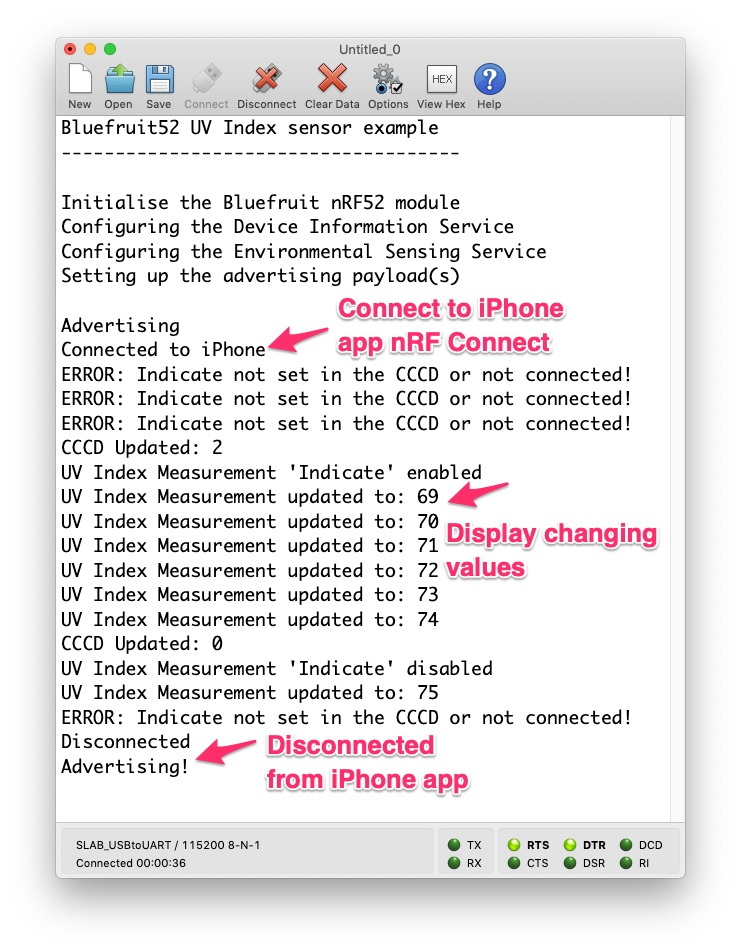
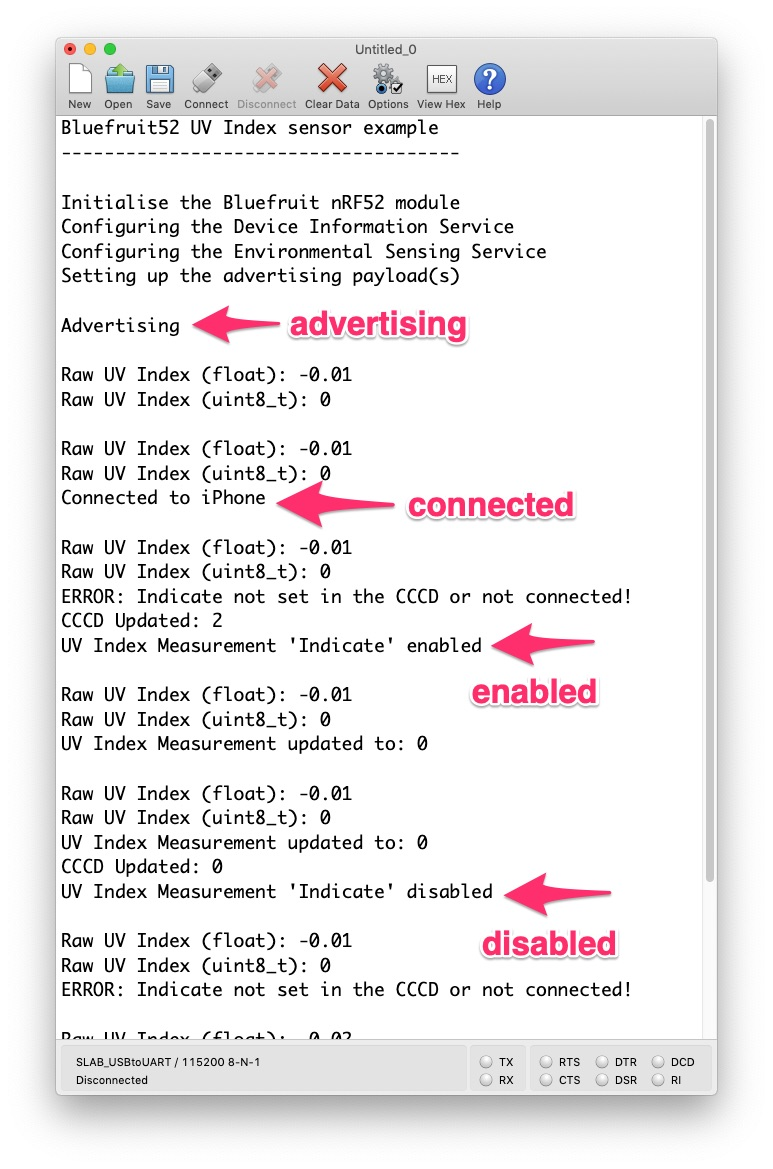
Update with actual UV sensor readings

Changed region(s): [[0.0621, 0.0305, 0.9312, 0.9443]]

diff --git a/_components/ble-uvi.md b/_components/ble-uvi.md
@@ -9,13 +9,16 @@ hardware:
   - ble
   - gatt
   - uv index
+  - veml6075
 ---
 
-Publish a fake UV Index value via BLE and view it on iPhone app nRF Connect.
+Publish a UV Index value via BLE and view it on iPhone app nRF Connect.
+
+![](/assets/images/components/ble-uvi-schematic.jpg)
 
 ![](/assets/images/components/ble-uvi-console.jpg)
 
-Use the nRF Connect iPhone app to view the fake generated UV Index values.
+Use the nRF Connect iPhone app to view the UV Index values.
 
 ![](/assets/images/components/ble-uvi-nrf-connect.jpg)
 ![](/assets/images/components/ble-uvi-nrf-connect-services.jpg)
